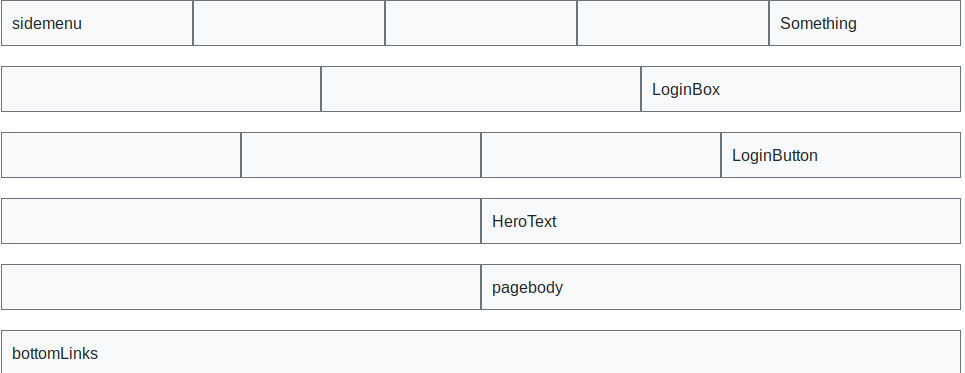
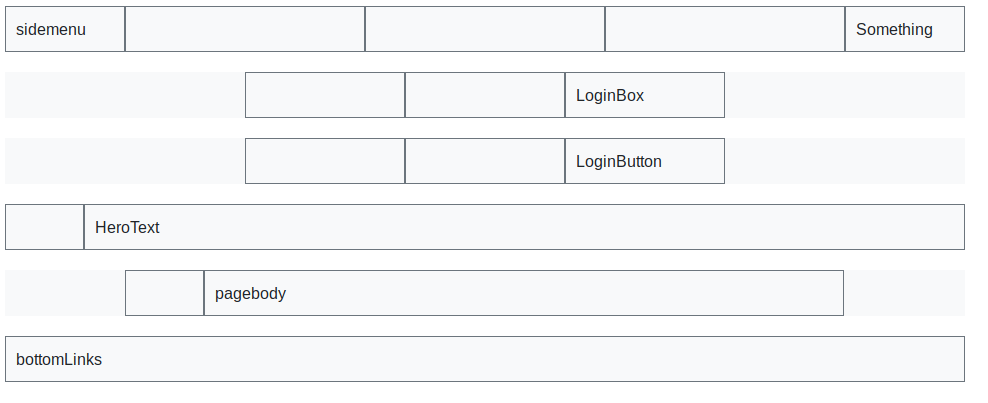
Sam better layout

diff --git a/README.md b/README.md
@@ -10,6 +10,11 @@ You have this set of predicates - a bit like N3 tuples.
 
 ```
 predicates = [
+    "LoginButton hasSize 2",
+    "pagebody hasSize 8",
+    "LoginBox hasSize 2",
+    "LoginBox below Something",
+    "LoginBox above LoginButton",
     "bottomLinks below pagebody",
     "pagebody centered screen",
     "HeroText centered screen",
@@ -18,9 +23,7 @@ predicates = [
     "HeroText below LoginButton",
     "Something rightOf LoginBox",
     "Something above LoginBox",
-    "LoginBox leftOf LoginButton",
-    "LoginButton rightOf LoginBox",
-    "LoginBox above LoginButton",
+    "LoginButton under LoginBox",
     "pagebody below HeroText",
     "pagebody under HeroText"
 ]
